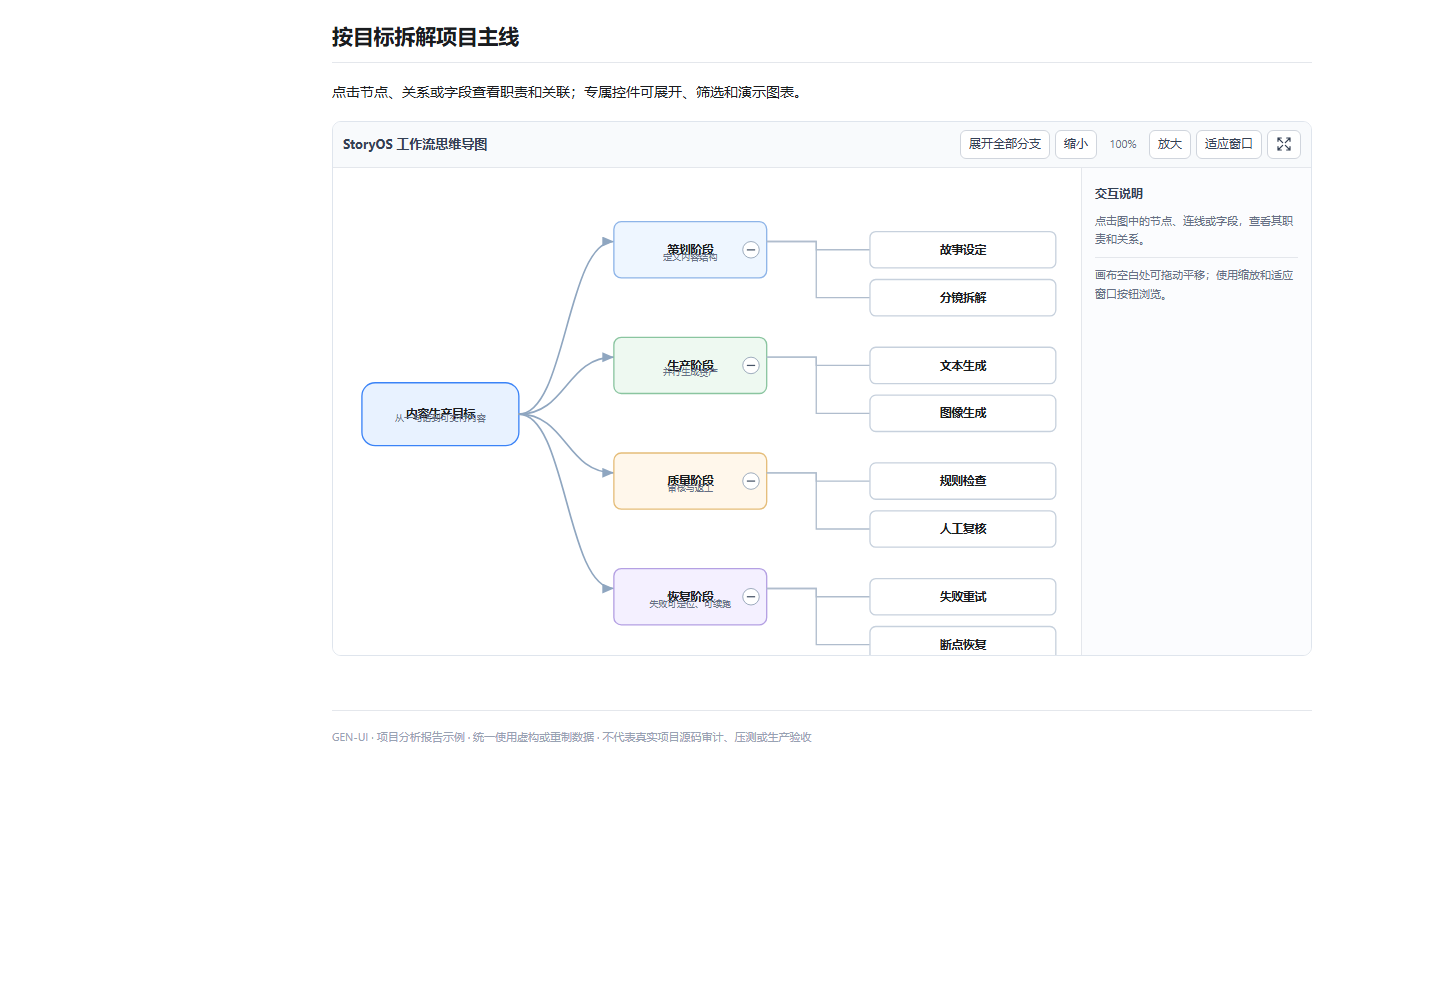
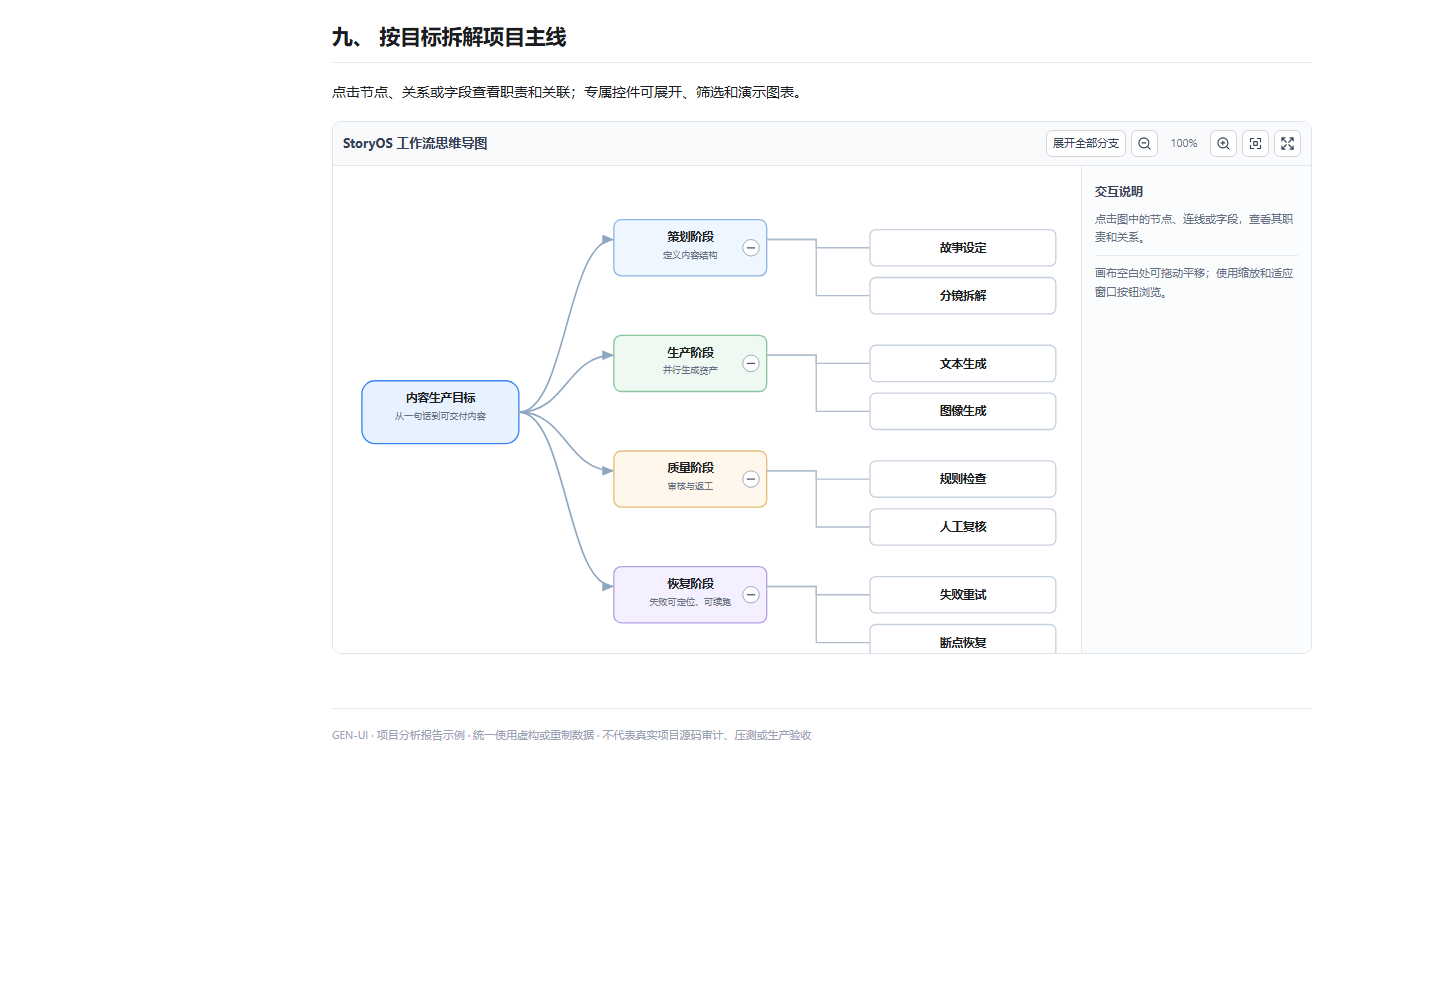
fix: 补强HTML交付校验与七类图验收并更新展示
交付校验,语义图表,README,测试验收

gen-ui

diff --git a/demo/documents/en/test-acceptance.html b/demo/documents/en/test-acceptance.html
@@ -1,6 +1,6 @@
 <!doctype html><html lang="en"><head><meta charset="utf-8"><meta name="viewport" content="width=device-width,initial-scale=1"><meta name="description" content="Risk-based tests and verifiable acceptance gates for asynchronous task consistency and recovery."><title>Test and acceptance plan · Gen UI</title><link rel="icon" href="../../../assets/icons/gen-ui-mark.svg" type="image/svg+xml"><link rel="stylesheet" href="../assets/document.css"><script src="../assets/document.en.js" defer></script><link rel="stylesheet" href="../../../assets/media-viewer.css"><script src="../../../assets/media-viewer.js" defer></script><script src="../../../assets/code-blocks.js" defer></script><link rel="stylesheet" href="../../../assets/diagram-types.css"><link rel="stylesheet" href="../../../assets/semantic-diagrams.css"><script src="../../../assets/semantic-diagrams.js" defer></script><link rel="stylesheet" href="../../../assets/heading-nav.css"><script src="../../../assets/heading-nav.js" defer></script></head><body><div class="doc-layout"><aside class="doc-toc"><p class="toc-brand">GEN UI / ENGLISH TECHNICAL DOCUMENT</p><p class="toc-label">ON THIS PAGE</p><nav aria-label="Document navigation"><ul class="toc-list"><li><a href="#strategy">Test strategy</a></li><li><a href="#environment">Isolated environment</a></li><li><a href="#cases">Core test matrix</a></li><li><a href="#faults">Fencing failure injection</a></li><li><a href="#performance">Performance and recovery</a></li><li><a href="#acceptance">Release gates</a></li><li><a href="#extra-diagrams">Additional diagrams</a></li></ul></nav><div class="toc-foot">Sanitized example, not a live audit</div></aside><main class="doc-main"><div class="doc-topline"><div class="doc-breadcrumb"><a href="index.html">English examples</a><span>/</span><span>Testing</span></div><span>GEN UI · HTML</span></div><details class="mobile-toc"><summary>On this page</summary><ul class="toc-list"><li><a href="#strategy">Test strategy</a></li><li><a href="#environment">Isolated environment</a></li><li><a href="#cases">Core test matrix</a></li><li><a href="#faults">Fencing failure injection</a></li><li><a href="#performance">Performance and recovery</a></li><li><a href="#acceptance">Release gates</a></li><li><a href="#extra-diagrams">Additional diagrams</a></li></ul></details><header><div class="doc-meta"><span><b>Generated</b><time class="generated-at" datetime="2026-11-10T15:00:00+08:00">2026-11-10 15:00:00</time></span><span><b>Document</b>DOC-TA-004</span><span><b>Status</b><span class="tag tag--blue">Illustrative example</span></span></div><p class="doc-kicker">ENGINEERING INFORMATION DESIGN / ENGLISH EXAMPLE</p><h1>Test and acceptance plan</h1><p class="doc-lede">Risk-based tests and verifiable acceptance gates for asynchronous task consistency and recovery.</p><div class="doc-summary"><strong>Read this first</strong><p>The following material is an illustration of evidence-aware technical writing. Its scope, assumptions, decisions, and next actions are explicit; no code audit, test run, or deployment is implied.</p></div></header><section class="doc-section" id="strategy"><h2>1. Test strategy</h2><p>Do not test only successful execution. Cover illegal transitions, duplicate delivery, concurrent claims, expired leases, crashes, retry classification, authorization, and evidence correlation. Record exact environment, commit, script, and data versions.</p></section>
-<section class="doc-section" id="environment"><h2>2. Isolated environment</h2><p>Use a test database, a dedicated queue, and a mock model provider. Allow controlled pause, network delay, worker termination, and duplicate message replay. Never run destructive fault injection against production.</p><div class="table-wrap"><table><caption>Test cases (not executed)</caption><thead><tr><th>ID</th><th>Scenario</th><th>Expected assertion</th><th>State</th></tr></thead><tbody><tr><td>TC-001</td><td>Redeliver the same event</td><td>One business effect</td><td>⏳ Not run</td></tr><tr><td>TC-002</td><td>Pause A, let B take over</td><td>A's stale token updates zero rows</td><td>⏳ Not run</td></tr><tr><td>TC-003</td><td>Crash publisher after DB commit</td><td>Outbox event eventually publishes</td><td>⏳ Not run</td></tr><tr><td>TC-004</td><td>Crash worker while running</td><td>Recovery converges with trace evidence</td><td>⏳ Not run</td></tr><tr><td>TC-005</td><td>Provider returns timeout / rate limit</td><td>Correct backoff and error classes</td><td>⏳ Not run</td></tr></tbody></table></div></section>
-<section class="doc-section" id="cases"><h2>3. Core test matrix</h2><p>Every test case needs its initial state, injected fault, expected database transition, event evidence, and reproducible assertion. Without execution evidence, its state remains Not run.</p></section>
+<section class="doc-section" id="environment"><h2>2. Isolated environment</h2><p>Use a test database, a dedicated queue, and a mock model provider. Allow controlled pause, network delay, worker termination, and duplicate message replay. Never run destructive fault injection against production.</p></section>
+<section class="doc-section" id="cases"><h2>3. Core test matrix</h2><p>Every test case needs its initial state, injected fault, expected database transition, event evidence, and reproducible assertion. Without execution evidence, its state remains Not run.</p><div class="table-wrap"><table><caption>Test cases (not executed)</caption><thead><tr><th>ID</th><th>Scenario</th><th>Expected assertion</th><th>State</th></tr></thead><tbody><tr><td>TC-001</td><td>Redeliver the same event</td><td>One business effect</td><td>⏳ Not run</td></tr><tr><td>TC-002</td><td>Pause A, let B take over</td><td>A's stale token updates zero rows</td><td>⏳ Not run</td></tr><tr><td>TC-003</td><td>Crash publisher after DB commit</td><td>Outbox event eventually publishes</td><td>⏳ Not run</td></tr><tr><td>TC-004</td><td>Crash worker while running</td><td>Recovery converges with trace evidence</td><td>⏳ Not run</td></tr><tr><td>TC-005</td><td>Provider returns timeout / rate limit</td><td>Correct backoff and error classes</td><td>⏳ Not run</td></tr></tbody></table></div></section>
 <section class="doc-section" id="faults"><h2>4. Fencing failure injection</h2><p>Pause Worker A after claim. Let its lease expire. Worker B claims the task with a higher fencing token and commits a result. Resume A; its stale conditional update must affect zero rows.</p></section>
 <section class="doc-section" id="performance"><h2>5. Performance and recovery</h2><p>Measure queue wait, throughput, P95/P99, Outbox lag, connection-pool saturation, and recovery convergence at graduated concurrency. Proposed workloads are test inputs—not measured capacity.</p></section>
 <section class="doc-section" id="acceptance"><h2>6. Release gates</h2><p>Require zero invalid terminal overwrites, idempotent redelivery, successful crash reconciliation, audit-ready evidence, and an executed rollback drill. No gate is marked passed in this demonstration.</p></section><section class="doc-section genui-extra-diagrams" id="extra-diagrams"><h2>Verification sequence and activity</h2><p>Select an element to inspect it. Diagram-specific controls expose the model's structure.</p><div class="genui-semantic-diagram" data-semantic-diagram="sequence"><p class="semantic-fallback">Shows requests, events, and responses between participants in time order.</p></div>

diff --git a/assets/semantic-diagrams.js b/assets/semantic-diagrams.js
@@ -185,7 +185,7 @@
  const ICON={
   plus:'<svg viewBox="0 0 24 24" aria-hidden="true"><circle cx="11" cy="11" r="8"/><path d="m21 21-4-4M8 11h6M11 8v6"/></svg>',
   minus:'<svg viewBox="0 0 24 24" aria-hidden="true"><circle cx="11" cy="11" r="8"/><path d="m21 21-4-4M8 11h6"/></svg>',
-  fit:'<svg viewBox="0 0 24 24" aria-hidden="true"><path d="M8 3H3v5M3 3l7 7M16 3h5v5m0-5-7 7M21 16v5h-5m5 0-7-7M8 21H3v-5m0 5 7-7"/></svg>',
+  fit:'<svg viewBox="0 0 24 24" aria-hidden="true"><path d="M4 9V4h5M20 9V4h-5M4 15v5h5M20 15v5h-5"/><rect x="9" y="9" width="6" height="6" rx="1"/></svg>',
   expand:'<svg viewBox="0 0 24 24" aria-hidden="true"><path d="M8 3H3v5M3 3l7 7M16 3h5v5m0-5-7 7M21 16v5h-5m5 0-7-7M8 21H3v-5m0 5 7-7"/></svg>',
   collapse:'<svg viewBox="0 0 24 24" aria-hidden="true"><path d="M8 8H3m5 0V3m8 5h5m-5 0V3m0 13h5m-5 0v5M8 16H3m5 0v5"/></svg>',
   layout:'<svg viewBox="0 0 24 24" aria-hidden="true"><rect x="3" y="4" width="8" height="6" rx="1"/><rect x="13" y="14" width="8" height="6" rx="1"/><path d="M11 7h4v4m-4 6H7v-3"/></svg>',
@@ -451,7 +451,7 @@
   const shell=html("div","semantic-shell",host),toolbar=html("div","semantic-toolbar",shell);
   html("strong","semantic-title",toolbar,text(model.title,lang));
   const tools=html("div","semantic-tools",toolbar);
-  const add=(a,l,i)=>btn(tools,a,l,ICON[i]);
+  const add=(a,l,i)=>btn(tools,a,l,i);
   if(type==="sequence"){add("prev",text(T("上一步消息","Previous message"),lang),ICON.prev);add("next",text(T("下一步消息","Next message"),lang),ICON.next);}
   if(type==="er")add("fields",text(T("隐藏普通字段","Hide non-key fields"),lang),"");
   if(type==="component")add("ports",text(T("隐藏接口端口","Hide interface ports"),lang),"");

diff --git a/assets/semantic-diagrams.css b/assets/semantic-diagrams.css
@@ -4,7 +4,7 @@
 .semantic-toolbar{display:flex;align-items:center;justify-content:space-between;gap:10px;flex-wrap:wrap;padding:8px 10px;background:#f8fafc;border-bottom:1px solid #e4e7ec}
 .semantic-title{font-size:13px;font-weight:700;color:#344054}
 .semantic-tools{display:flex;align-items:center;gap:5px;flex-wrap:wrap}
-.semantic-tool{display:inline-flex;align-items:center;justify-content:center;gap:5px;min-height:29px;padding:4px 8px;border:1px solid #d0d5dd;border-radius:6px;background:#fff;color:#344054;font:12px/1.3 system-ui,sans-serif;cursor:pointer}
+.semantic-tool{white-space:nowrap;display:inline-flex;align-items:center;justify-content:center;gap:5px;min-height:29px;padding:4px 8px;border:1px solid #d0d5dd;border-radius:6px;background:#fff;color:#344054;font:12px/1.3 system-ui,sans-serif;cursor:pointer}
 .semantic-tool:hover,.semantic-tool[aria-pressed=true]{border-color:#9dc2ff;background:#eff6ff;color:#2468c9}
 .semantic-tool:focus-visible{outline:2px solid #3a83f7;outline-offset:2px}
 .semantic-tool svg{width:16px;height:16px;fill:none;stroke:currentColor;stroke-width:1.8;stroke-linecap:round;stroke-linejoin:round}

diff --git a/references/html-report-contract.md b/references/html-report-contract.md
@@ -6,6 +6,9 @@ This contract applies **whenever HTML is the chosen or required final deliverabl
 
 Before accepting a generated standalone report, run `node scripts/validate-html-report.mjs <report.html>`. An enhancement script does not count as static navigation: include an `<aside>` containing a `<nav>` and a real list of fragment links as a usable no-JavaScript fallback. Icon-only `.genui-action-icon` and `.icon-only` buttons require nonempty `aria-label`, `title` and an SVG icon. Render a status as one readable value; never rely on a CSS `::before` suppression rule to hide a second marker. A nonzero exit code blocks acceptance: missing left navigation container, missing heading-nav.js, missing main, missing navigable headings, mixed Chinese/decimal heading schemes, invalid decimal heading depth or visible timezone suffix. This is a **static contract check**, not a substitute for browser and accessibility tests. Heading levels are defined by H2/H3/H4, never inferred from numeric text. The navigation enhancer preserves source numbering by default; set `data-heading-numbering="chinese"` on `<html>` only for intentionally generated Chinese numbering. Choose numbering before producing the HTML, not at runtime.
 
+### Offline resources and navigation integrity
+
+The delivery gate validates that static TOC fragment targets exist within the document main content (the id may belong to the heading or its enclosing section). It also checks local asset existence and rejects automatically loaded remote scripts, stylesheets, image URLs, iframe sources, and responsive image source sets. Ordinary outbound citation links remain permitted. Use relative paths for bundled assets and keep all HTML functional without remote requests. This conservative gate does not execute generated scripts and is not a substitute for a browser security review.
 ### Fourth-round layout invariants
 
 - Single-page HTML reports default to a **visible left sidebar**, not top or hidden navigation. Build at most three collapsible heading levels (H2/H3/H4, including headings equivalent to 4 / 4.1 / 4.1.1). Generate links from actual heading IDs and preserve a usable static fallback.

diff --git a/evals/release-gate-2026-11-11.md b/evals/release-gate-2026-11-11.md
@@ -26,3 +26,11 @@
 对真实 Codex 输出还需执行 `scripts/validate-html-report.mjs` 和 Chrome 浏览器验收，并区分内容错误、格式错误与运行时交互缺陷。压力测试仅覆盖指定三类图的确定性样本，不能证明任意合法输入无碰撞；其余四类图随机压力测试也尚未完成。
 
 **结论：代码和回归门禁就绪，正式封版仍需真实模型 A/B 证据。** 本文是本地验收快照，不代表 GitHub Actions 已完成或远端已发布。
+
+## 第四轮缺口整改复检（同日增量）
+
+- HTML 交付验证器增加正文内真实锚点检查，兼容包含标题的 section，阻断远程自动加载脚本、样式、图片、iframe、srcset 和本地缺失资源，公开点击引用仍可使用。新增负例验证见 tests/html-report-delivery.test.mjs。
+- 七类语义图从三类/120 份扩展到七类/280 份，每类 40 份固定种子 JSON，桌面 900px 和移动 375px 均实际渲染、检查关系标签避让、节点文字边界、类型交互及重复初始化。证据分别为 evals/artifacts/stress-2026-11-11/result.json 与 result-mobile.json。
+- README 对应中英文技术文档截图通过 Chrome --update-previews 从当前源码重新生成（9 张），英文测试验收矩阵已移动到正确章节并在截图中可见。修复图表工具栏 SVG icon 参数传递错误及 fit/fullscreen 图标重复问题。
+- 真实 Codex Skill A/B：本轮在 WebCodex SYSTEM Runner 上调用单次 MD-light 任务仍超时。未产生真实可验收模型输出；不能据此认为 Skill 行为提升。桌面账户方式受工具授权限制，未进行越权操作。**A/B 仍为封版阻塞项。**
+- 上述回归仅代表本地 Runner 验证，不能替代 GitHub Actions 远端流水线或真实 Agent A/B。正式封版结论维持“暂不封版”，直到真实模型对照闭环。

diff --git a/README.md b/README.md
@@ -131,7 +131,11 @@ Additional **English Markdown examples**: [Java code review](examples/code-revie
 powershell -NoProfile -ExecutionPolicy Bypass -File scripts/test-skill.ps1
 node tests/chrome-report-smoke.mjs
 node tests/chrome-documents-smoke.mjs
+node tests/chrome-semantic-stress.mjs
+node tests/chrome-semantic-stress.mjs --mobile
 ~~~
+
+To refresh all nine current technical-document screenshots from the actual HTML and Chrome renderer, run `node tests/chrome-documents-smoke.mjs --update-previews`. Seeded diagram regression now covers 7 types × 40 models at desktop and mobile widths; it does not prove that every possible diagram is collision-free.
 
 These checks validate fixed, trusted repository examples; they do not establish general model compliance or results from a real project. See [SKILL.md](SKILL.md), [integration](docs/integration.md), and [FAQ](docs/faq.md) for capability and safety boundaries.
 

diff --git a/README.zh-CN.md b/README.zh-CN.md
@@ -137,7 +137,11 @@ Claude Code 可放入项目的 `.claude/skills/gen-ui/`，其他 Agent 可按照
 powershell -NoProfile -ExecutionPolicy Bypass -File scripts/test-skill.ps1
 node tests/chrome-report-smoke.mjs
 node tests/chrome-documents-smoke.mjs
+node tests/chrome-semantic-stress.mjs
+node tests/chrome-semantic-stress.mjs --mobile
 ~~~
+
+如需从真实 HTML 和 Chrome 重新生成当前 9 张技术文档截图，运行 `node tests/chrome-documents-smoke.mjs --update-previews`。七类专业图现覆盖每类 40 份固定种子业务模型及桌面/移动端回归，但不等于所有输入都绝对无碰撞。
 
 测试仅验证**仓库内的固定示例**；不等于真实目标项目已通过审计、执行或发布。关于安全边界、宿主适配与操作许可，参见 [SKILL.md](SKILL.md)、[集成说明](docs/integration.md) 和 [FAQ](docs/faq.md)。
 
